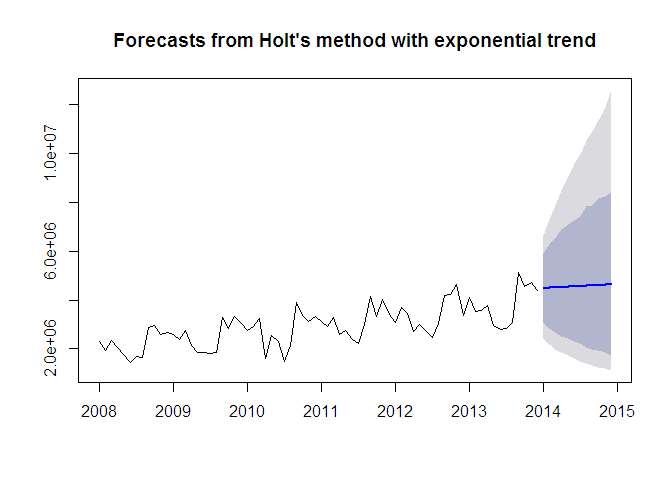
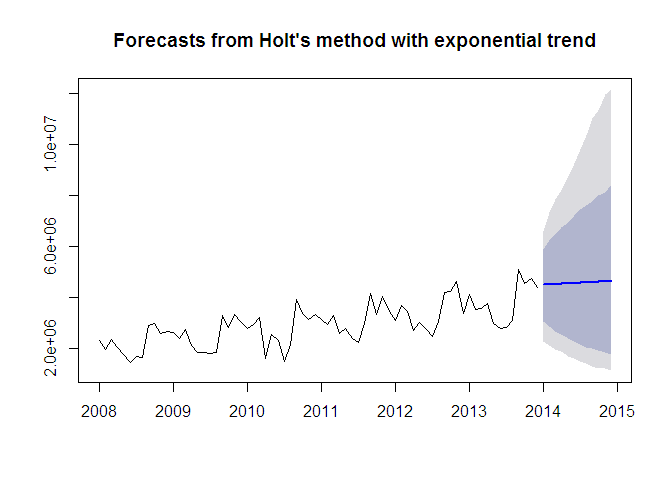
Thought I had rmarkdown working using relative paths but it didnt work, should now

diff --git a/ChulwalarCode.html b/ChulwalarCode.html
@@ -769,20 +769,20 @@ summary(Model_holt_2)</code></pre>
 ## 
 ## Forecasts:
 ##          Point Forecast   Lo 80   Hi 80   Lo 95    Hi 95
-## Jan 2014        4488281 3100919 5908251 2440454  6625903
-## Feb 2014        4502175 2854892 6272416 2198844  7310710
-## Mar 2014        4516113 2690077 6524645 1974879  7867168
-## Apr 2014        4530094 2527663 6900717 1870304  8464341
-## May 2014        4544118 2421970 7093206 1719983  9071236
-## Jun 2014        4558186 2311386 7258446 1597404  9588165
-## Jul 2014        4572297 2227731 7428497 1492660  9950426
-## Aug 2014        4586452 2041335 7808492 1395212 10537314
-## Sep 2014        4600650 1986675 7854091 1338313 10902834
-## Oct 2014        4614893 1929828 8152341 1230522 11346392
-## Nov 2014        4629180 1841865 8222514 1182961 11881427
-## Dec 2014        4643510 1726930 8411883 1104541 12596802</code></pre>
+## Jan 2014        4488281 3063045 5870709 2288093  6592439
+## Feb 2014        4502175 2858704 6228843 2118900  7339898
+## Mar 2014        4516113 2661087 6477943 1961331  7840240
+## Apr 2014        4530094 2543712 6731277 1879254  8198963
+## May 2014        4544118 2389523 6939660 1667959  8743646
+## Jun 2014        4558186 2261479 7208066 1606165  9236375
+## Jul 2014        4572297 2152096 7448547 1492728  9776113
+## Aug 2014        4586452 2048583 7592478 1389956 10337699
+## Sep 2014        4600650 1979716 7764628 1293816 11000997
+## Oct 2014        4614893 1905094 7989744 1217896 11306876
+## Nov 2014        4629180 1827212 8104114 1193649 11964927
+## Dec 2014        4643510 1751975 8415983 1119471 12128600</code></pre>
 <pre class="r"><code>plot(Model_holt_2)</code></pre>
[2 lines of base64/hex data omitted]
 </div>
 <div id="dampened-trends" class="section level2">
 <h2>Dampened trends</h2>
@@ -866,21 +866,21 @@ summary(Model_holt_4)</code></pre>
 ## Training set 0.0254941
 ## 
 ## Forecasts:
-##          Point Forecast   Lo 80   Hi 80   Lo 95    Hi 95
-## Jan 2014        4470648 3075038 5890386 2380361  6664637
-## Feb 2014        4473164 2852889 6247655 2096463  7300237
-## Mar 2014        4475630 2621394 6534216 1931750  7993773
-## Apr 2014        4478047 2462858 6834991 1801239  8438739
-## May 2014        4480418 2299619 6945786 1611174  8999376
-## Jun 2014        4482742 2189845 7207053 1533428  9349756
-## Jul 2014        4485020 2088642 7327850 1404317  9852563
-## Aug 2014        4487253 1953820 7543068 1298398 10654084
-## Sep 2014        4489443 1880540 7750872 1233191 10929801
-## Oct 2014        4491589 1765972 7962421 1170863 11476586
-## Nov 2014        4493694 1691089 8033648 1039985 11513182
-## Dec 2014        4495757 1619131 8070198 1009870 12145806</code></pre>
+##          Point Forecast   Lo 80   Hi 80     Lo 95    Hi 95
+## Jan 2014        4470648 3095860 5883950 2365779.0  6529305
+## Feb 2014        4473164 2829233 6144568 2065243.4  7215295
+## Mar 2014        4475630 2642848 6456932 1950706.1  7751932
+## Apr 2014        4478047 2463938 6752449 1765663.0  8267351
+## May 2014        4480418 2301838 7025245 1671591.2  9097051
+## Jun 2014        4482742 2230544 7143722 1502052.2  9376839
+## Jul 2014        4485020 2075974 7428461 1410433.0  9726248
+## Aug 2014        4487253 1958186 7594566 1312118.4 10211557
+## Sep 2014        4489443 1898672 7682526 1241342.2 10771077
+## Oct 2014        4491589 1792909 7916362 1152763.2 11304123
+## Nov 2014        4493694 1736902 8001673 1070875.1 11559229
+## Dec 2014        4495757 1649679 8105963  993548.1 11930306</code></pre>
 <pre class="r"><code>plot(Model_holt_4)</code></pre>
[2 lines of base64/hex data omitted]
 <pre class="r"><code># level and slope can be plotted individually for each model. 
 plot(Model_holt_1$model$state)</code></pre>
[1 lines of base64/hex data omitted]

diff --git a/ChulwalarCode.md b/ChulwalarCode.md
@@ -1470,18 +1470,18 @@ summary(Model_holt_2)
 ## 
 ## Forecasts:
 ##          Point Forecast   Lo 80   Hi 80   Lo 95    Hi 95
-## Jan 2014        4488281 3100919 5908251 2440454  6625903
-## Feb 2014        4502175 2854892 6272416 2198844  7310710
-## Mar 2014        4516113 2690077 6524645 1974879  7867168
-## Apr 2014        4530094 2527663 6900717 1870304  8464341
-## May 2014        4544118 2421970 7093206 1719983  9071236
-## Jun 2014        4558186 2311386 7258446 1597404  9588165
-## Jul 2014        4572297 2227731 7428497 1492660  9950426
-## Aug 2014        4586452 2041335 7808492 1395212 10537314
-## Sep 2014        4600650 1986675 7854091 1338313 10902834
-## Oct 2014        4614893 1929828 8152341 1230522 11346392
-## Nov 2014        4629180 1841865 8222514 1182961 11881427
-## Dec 2014        4643510 1726930 8411883 1104541 12596802
+## Jan 2014        4488281 3063045 5870709 2288093  6592439
+## Feb 2014        4502175 2858704 6228843 2118900  7339898
+## Mar 2014        4516113 2661087 6477943 1961331  7840240
+## Apr 2014        4530094 2543712 6731277 1879254  8198963
+## May 2014        4544118 2389523 6939660 1667959  8743646
+## Jun 2014        4558186 2261479 7208066 1606165  9236375
+## Jul 2014        4572297 2152096 7448547 1492728  9776113
+## Aug 2014        4586452 2048583 7592478 1389956 10337699
+## Sep 2014        4600650 1979716 7764628 1293816 11000997
+## Oct 2014        4614893 1905094 7989744 1217896 11306876
+## Nov 2014        4629180 1827212 8104114 1193649 11964927
+## Dec 2014        4643510 1751975 8415983 1119471 12128600
 ```
 
 ```r
@@ -1586,19 +1586,19 @@ summary(Model_holt_4)
 ## Training set 0.0254941
 ## 
 ## Forecasts:
-##          Point Forecast   Lo 80   Hi 80   Lo 95    Hi 95
-## Jan 2014        4470648 3075038 5890386 2380361  6664637
-## Feb 2014        4473164 2852889 6247655 2096463  7300237
-## Mar 2014        4475630 2621394 6534216 1931750  7993773
-## Apr 2014        4478047 2462858 6834991 1801239  8438739
-## May 2014        4480418 2299619 6945786 1611174  8999376
-## Jun 2014        4482742 2189845 7207053 1533428  9349756
-## Jul 2014        4485020 2088642 7327850 1404317  9852563
-## Aug 2014        4487253 1953820 7543068 1298398 10654084
-## Sep 2014        4489443 1880540 7750872 1233191 10929801
-## Oct 2014        4491589 1765972 7962421 1170863 11476586
-## Nov 2014        4493694 1691089 8033648 1039985 11513182
-## Dec 2014        4495757 1619131 8070198 1009870 12145806
+##          Point Forecast   Lo 80   Hi 80     Lo 95    Hi 95
+## Jan 2014        4470648 3095860 5883950 2365779.0  6529305
+## Feb 2014        4473164 2829233 6144568 2065243.4  7215295
+## Mar 2014        4475630 2642848 6456932 1950706.1  7751932
+## Apr 2014        4478047 2463938 6752449 1765663.0  8267351
+## May 2014        4480418 2301838 7025245 1671591.2  9097051
+## Jun 2014        4482742 2230544 7143722 1502052.2  9376839
+## Jul 2014        4485020 2075974 7428461 1410433.0  9726248
+## Aug 2014        4487253 1958186 7594566 1312118.4 10211557
+## Sep 2014        4489443 1898672 7682526 1241342.2 10771077
+## Oct 2014        4491589 1792909 7916362 1152763.2 11304123
+## Nov 2014        4493694 1736902 8001673 1070875.1 11559229
+## Dec 2014        4495757 1649679 8105963  993548.1 11930306
 ```
 
 ```r
